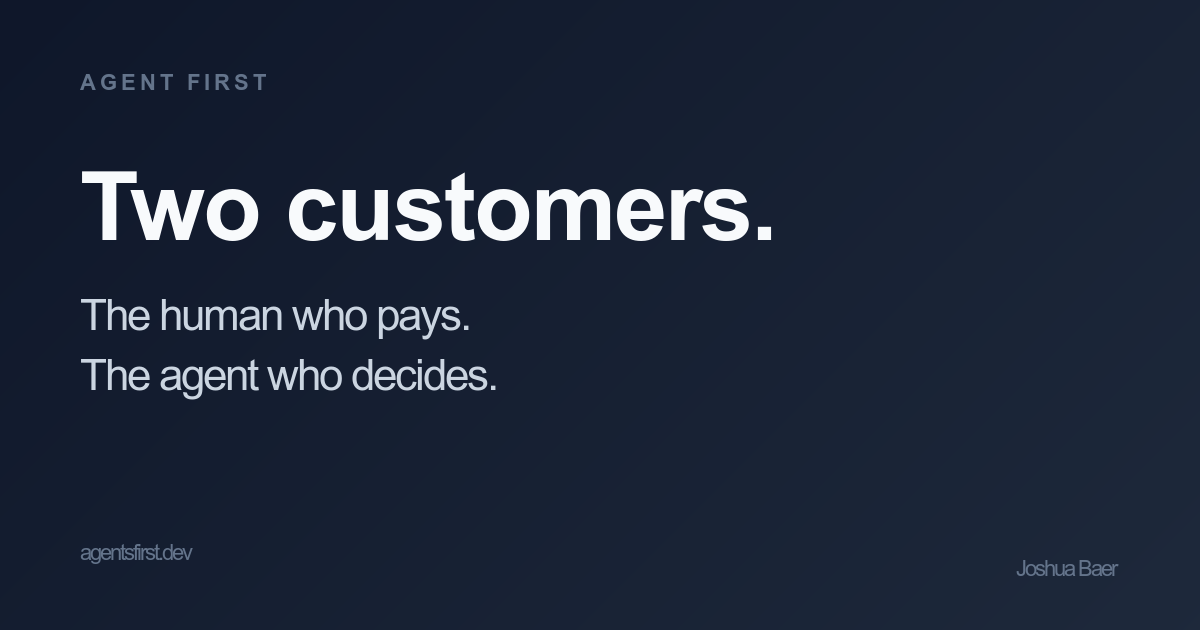
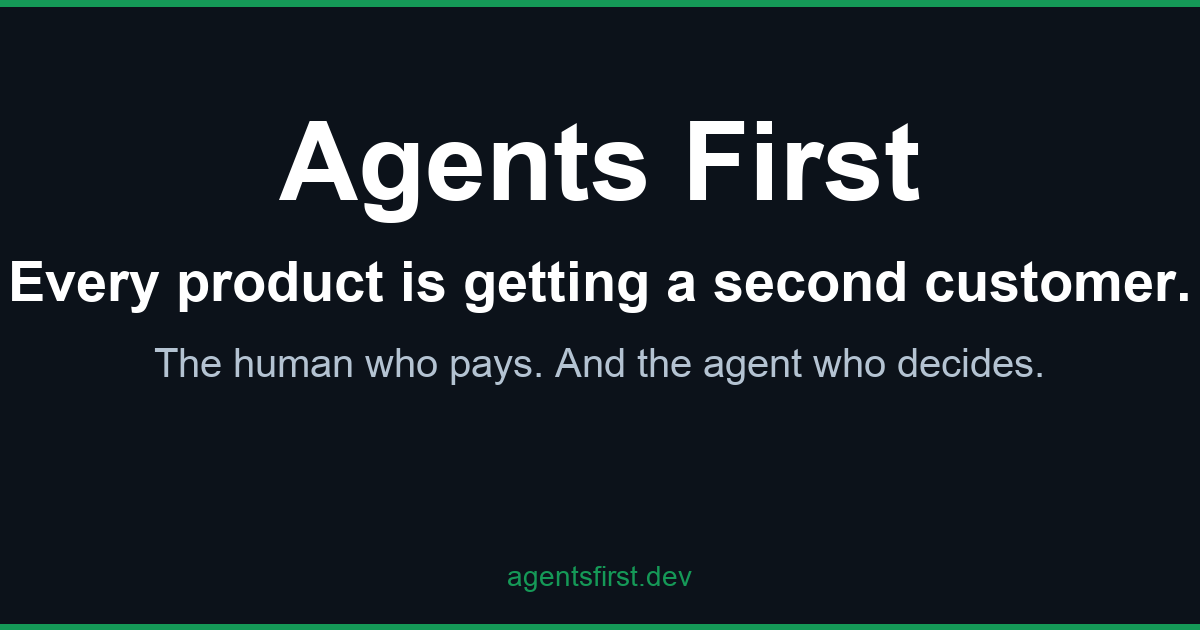
feat(brand): refreshed og-image + MCP registry submission tracker
- og-image.png: regenerated 1200×630 with the v0.6 brand ("Agents First")
  and the new tagline ("Every product is getting a second customer · The
  human who pays. And the agent who decides."). Cayman-aligned green
  accent on near-black background. Pillow-generated; swap with a Figma
  pass when there's time. Old "Agent First"-era card backed up locally
  to og-image.old.png (gitignored).

- docs/registry-submissions.md: tracks where the MCP packages have been
  submitted across registries. awesome-mcp-servers PR is open
  (#5936, fast-track marker per maintainer's CONTRIBUTING.md). mcp.so +
  Smithery are bot-protected and need Josh's browser; draft submission
  text + form values prepared so the actual submit is paste-only.

diff --git a/docs/registry-submissions.md b/docs/registry-submissions.md
@@ -1,0 +1,107 @@
+# MCP registry submissions — `@capitalthought/agentsfirst-mcp`
+
+Status as of 2026-05-05:
+
+| Registry | Status | Notes |
+|---|---|---|
+| **npm** | ✅ Live | `@capitalthought/agentsfirst-mcp@0.1.1` + `@capitalthought/create-agents-first@0.1.0` |
+| **awesome-mcp-servers** (punkpeye) | 🟡 PR open | https://github.com/punkpeye/awesome-mcp-servers/pull/5936 (used the maintainer's fast-track `🤖🤖🤖` marker) |
+| **mcp.so** | ⏳ Awaiting Josh | Submission form is bot-protected (Cloudflare turnstile / 403). Browser session required. Draft text below. |
+| **Smithery.ai** | ⏳ Awaiting Josh | Same — needs browser + GitHub OAuth signup. Draft text below. |
+| **glama.ai/mcp/servers** | ⏳ Awaiting Josh | Auto-discovers from awesome-mcp-servers PR; landing the punkpeye PR usually triggers a glama listing within ~1 day. Verify after PR merges. |
+
+---
+
+## mcp.so
+
+**Submission URL:** https://mcp.so/submit (or check the navbar on https://mcp.so for "Submit Server" / "Add Server")
+
+**If the form asks for it:**
+
+| Field | Value |
+|---|---|
+| Server name | `agentsfirst-mcp` |
+| Display name | `Agents First` |
+| Description (short, ~80 chars) | `Score any URL or codebase against the Agents First framework — 8 principles, 7 anti-patterns, 0–4 adoption levels.` |
+| Description (long) | See block below |
+| GitHub URL | `https://github.com/capitalthought/agentsfirst` |
+| npm package | `@capitalthought/agentsfirst-mcp` |
+| Hosted endpoint | `https://agentsfirst.dev/mcp` |
+| Tags / categories | `developer-tools`, `code-quality`, `agents`, `framework`, `audit`, `score` |
+| License | `MIT` |
+| Author | `Joshua Baer` |
+| Author URL | `https://agentsfirst.dev` |
+
+**Long description block** (paste into the long-description textarea):
+
+```
+MCP server for measuring agent-readiness — both for websites (do agents see your product at all?) and for codebases (does your product use the 8 implementation principles or commit one of the 7 anti-patterns?).
+
+Five tools:
+- `agentsfirst_prep` — Prep Gate. Run before scoring; verifies the rubric is loaded and principles are at the expected version.
+- `score_website` — { url } → score (0–100), level (0–4), per-dimension breakdown, anti-patterns flagged, top 3 highest-leverage moves.
+- `score_codebase` — { path } → same shape, scored against the 8 principles. Local-only (Workers can't read filesystems); use the npx variant.
+- `get_principle` — { slug } → canonical text of one of Interface First, Contract First, Prep Gates, Typed State, Visible Outputs, Multi-Model Verification, Perspective Dispatch, Autonomous Recovery.
+- `get_anti_pattern` — { slug } → canonical definition of Lazy Wrapper, Invisible Product, Agents Without Rules, Single-Model Trust, Slow Chatbot, Ship and Forget, God Server.
+
+Two ways to use it:
+1. Hosted (4 tools, no codebase scoring): add `https://agentsfirst.dev/mcp` as a remote MCP server.
+2. Local (all 5 tools): `npx -y @capitalthought/agentsfirst-mcp`.
+
+Read-only by design — never writes anywhere; only opens HTTP connections to URLs the caller named.
+
+Read the framework: https://agentsfirst.dev
+```
+
+**If the form has Discord/Telegram alternative:** they accept submissions via [@chatmcp on X](https://x.com/chatmcp) or their Discord (https://discord.gg/RsYPRrnyqg). DM message:
+
+> Hi @chatmcp — submitting a new MCP server for the directory: agentsfirst-mcp. Hosted at https://agentsfirst.dev/mcp · npm: @capitalthought/agentsfirst-mcp · GitHub: https://github.com/capitalthought/agentsfirst. It scores any URL or codebase against the Agents First framework. Five tools, read-only, MIT license.
+
+---
+
+## Smithery.ai
+
+**Submission URL:** https://smithery.ai (sign in with GitHub, then "Add Server" / "Submit Server" in the dashboard)
+
+**Smithery typically auto-discovers via:**
+- npm package metadata (already published)
+- A `smithery.yaml` file at the repo root (we don't have one — see optional add below)
+- GitHub repo metadata + the README
+
+**Submission flow:**
+1. Sign in with GitHub at https://smithery.ai (use the `joshuabaer` account)
+2. Click "Submit a server" or visit https://smithery.ai/new
+3. Either provide the GitHub repo URL (`https://github.com/capitalthought/agentsfirst`, then point to the `tools/agentsfirst-mcp` subdir) or the npm package name (`@capitalthought/agentsfirst-mcp`)
+4. Smithery will auto-fetch metadata; verify the description + connection method are correct
+5. Approve / publish
+
+**Optional but recommended:** add a `smithery.yaml` to `tools/agentsfirst-mcp/` to control the listing precisely. Format:
+
+```yaml
+# tools/agentsfirst-mcp/smithery.yaml
+startCommand:
+  type: stdio
+  command: npx
+  args:
+    - -y
+    - "@capitalthought/agentsfirst-mcp"
+description: |
+  Score any URL or codebase against the Agents First framework — 8 implementation principles + 7 anti-patterns + 0–4 adoption levels.
+configSchema:
+  type: object
+  properties: {}
+  required: []
+```
+
+(Smithery's CLI also supports `npx @smithery/cli@latest install @capitalthought/agentsfirst-mcp` once listed.)
+
+---
+
+## After landing both
+
+1. Re-check the npm registry shows the package: `npm view @capitalthought/agentsfirst-mcp` (already verified)
+2. Visit each registry's listing once live to verify metadata:
+   - https://mcp.so/server/agentsfirst-mcp (or whatever slug they assign)
+   - https://smithery.ai/server/@capitalthought/agentsfirst-mcp
+   - https://glama.ai/mcp/servers/capitalthought/agentsfirst (after punkpeye PR merges)
+3. Add the listing URLs to `_includes/head-custom.html` JSON-LD `mainEntityOfPage` so structured data surfaces them as canonical references for the Agents First scorer artifact.
